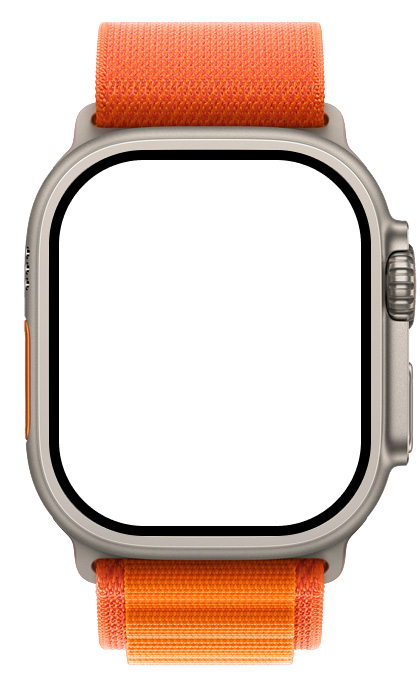
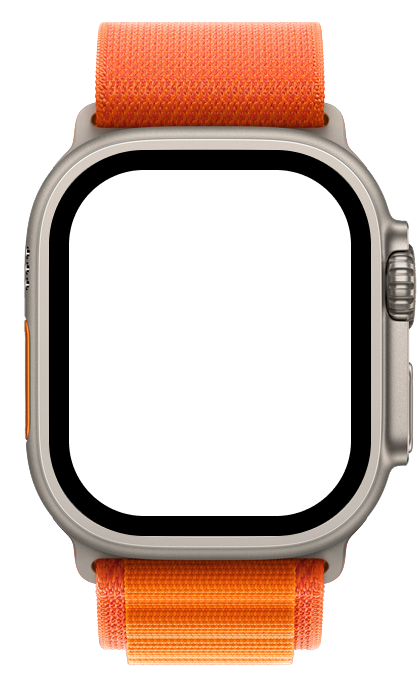
teste contact section

Changed region(s): [[0.1238, 0.2124, 0.8667, 0.7587]]

diff --git a/style.css b/style.css
@@ -790,34 +790,27 @@ input {
 }
 
 .contact img {
-  position: relative;
-  width: min(100%, 100%);
+  position: absolute;
+  width: 170px;
+  max-width: 177px;
   display: flex;
   top: 50.5%;
   left: 50%;
   transform: translate(-50%, -50%);
-  background-repeat: no-repeat;
-  background-position: center center;
-  background-attachment: fixed;
-  background-size: cover;
-  /* z-index: 3; */
 }
 
 .contact .frame {
-  /* width: min(130px, 220px); 140px */
-  /* height: min(155px, 200px); 170px */
-  width: 126px;
-  height: 152px;
+  width: 123px;
+  height: 150px;
   display: flex;
-  border-radius: 3.6rem;
+  border-radius: 35px;
   padding: 10px;
   overflow: hidden;
   top: 50%;
   left: 50%;
   transform: translate(-50%, -50%);
-  position: absolute;
-  background-color: blue;
-  /* z-index: 1; */
+  position: relative;
+  background-color: lightskyblue;
 }
 
 .contact .button {
@@ -903,13 +896,12 @@ input {
   }
 
   .contact img {
-    position: relative;
-    width: max(50%, 50%);
+    position: absolute;
+    width: 185px;
     display: flex;
     top: 50%;
     left: 50%;
     transform: translate(-50%, -50%);
-    /* z-index: 3; */
   }
 }
 
@@ -1073,12 +1065,12 @@ input {
   }
 
   .contact .frame {
-    width: 143px;
-    height: 176px;
+    width: 130px;
+    height: 160px;
   }
 
   .contact img {
-    position: relative;
+    position: absolute;
     width: min(100%, 100%); /*86%*/
     display: flex;
     flex-direction: column;
